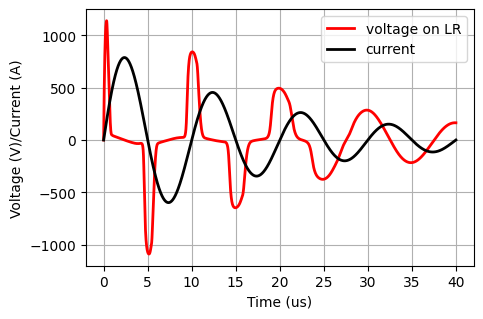
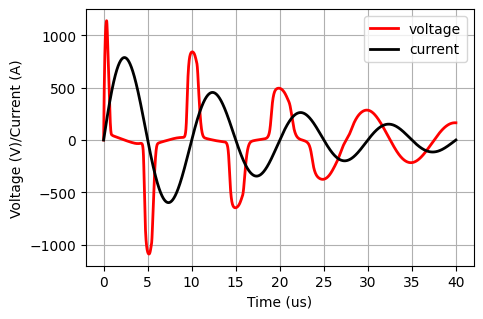
update

Changed region(s): [[0.6522, 0.0564, 0.9627, 0.1975], [0.6832, 0.0282, 0.7453, 0.0564]]

diff --git a/main.py b/main.py
@@ -130,7 +130,7 @@ plt.xlabel('Time (us)')
 plt.ylabel('Voltage (V)/Current (A)')
 plt.grid()
 
-plt.plot(time_sim*10**6 ,voltage_sim ,label='voltage on LR',color='red',linewidth=2)
+plt.plot(time_sim*10**6 ,voltage_sim ,label='voltage',color='red',linewidth=2)
 plt.plot(time_sim*10**6 ,current_sim ,label='current',color='black',linewidth=2)
 plt.legend(loc='best')
 plt.savefig('uit.png', bbox_inches='tight')

diff --git a/readme.md b/readme.md
@@ -23,19 +23,24 @@ The simulation utilizes two L(i) amd R(i) models to achieve an impedance functio
 
 <img src="L.png"> <img src="R.png"> 
 
-The result of Spice simulation
+The result of Spice simulation:
  
 <img src="uit.png">
 
-## Reference
+## References
 
 Do you like the library? Please cite:
 
-Kutorasiński, K., Pawłowski, J., Leszczyński, P., & Szewczyk, M. (2023). Nonlinear modeling of magnetic materials for circuit simulations. Scientific Reports, 13(1), 17178.
+[1] Kutorasinski, K., Pawłowski, J., Molas, M., & Szewczyk, M. (2025). Nonlinear Magnetic Ring Model: From Impedance Measurements to Time Domain Simulations. XXX, XXX 
 
-Leszczynski, P., Kutorasinski, K., Szewczyk, M., & Pawłowski, J. (2024). Machine-Learned Models for Power Magnetic Material Characteristics. IEEE Transactions on Power Electronics.
+[2] Leszczynski, P., Kutorasinski, K., Szewczyk, M., & Pawłowski, J. (2024). Machine-Learned Models for Power Magnetic Material Characteristics. IEEE Transactions on Power Electronics.
+[https://ieeexplore.ieee.org/document/10684126](https://ieeexplore.ieee.org/document/10684126)
 
-Kutorasinski, K., Pawłowski, J., Molas, M., & Szewczyk, M. (2025). Nonlinear Magnetic Ring Model: From Impedance Measurements to Time Domain Simulations. XXX, XXX 
+[3] Kutorasiński, K., Pawłowski, J., Leszczyński, P., & Szewczyk, M. (2023). Nonlinear modeling of magnetic materials for circuit simulations. Scientific Reports, 13(1), 17178.
+[https://www.nature.com/articles/s41598-023-44187-3](https://www.nature.com/articles/s41598-023-44187-3)
+
+ 
+
 
 ## Requirement
 
@@ -43,10 +48,10 @@ To run simulation PySpice with ngspice is needed. Raw spice netlist as txt file 
 
 ## History
 
-V0.91 (development release)
+V0.91 - 1.2025 (development release)
  * Added an example to show how to use with the NgSpice with Pyspice.
 
-V0.9 (development release)
+V0.9 - 2024 (development release)
  * Started project 
  
 
